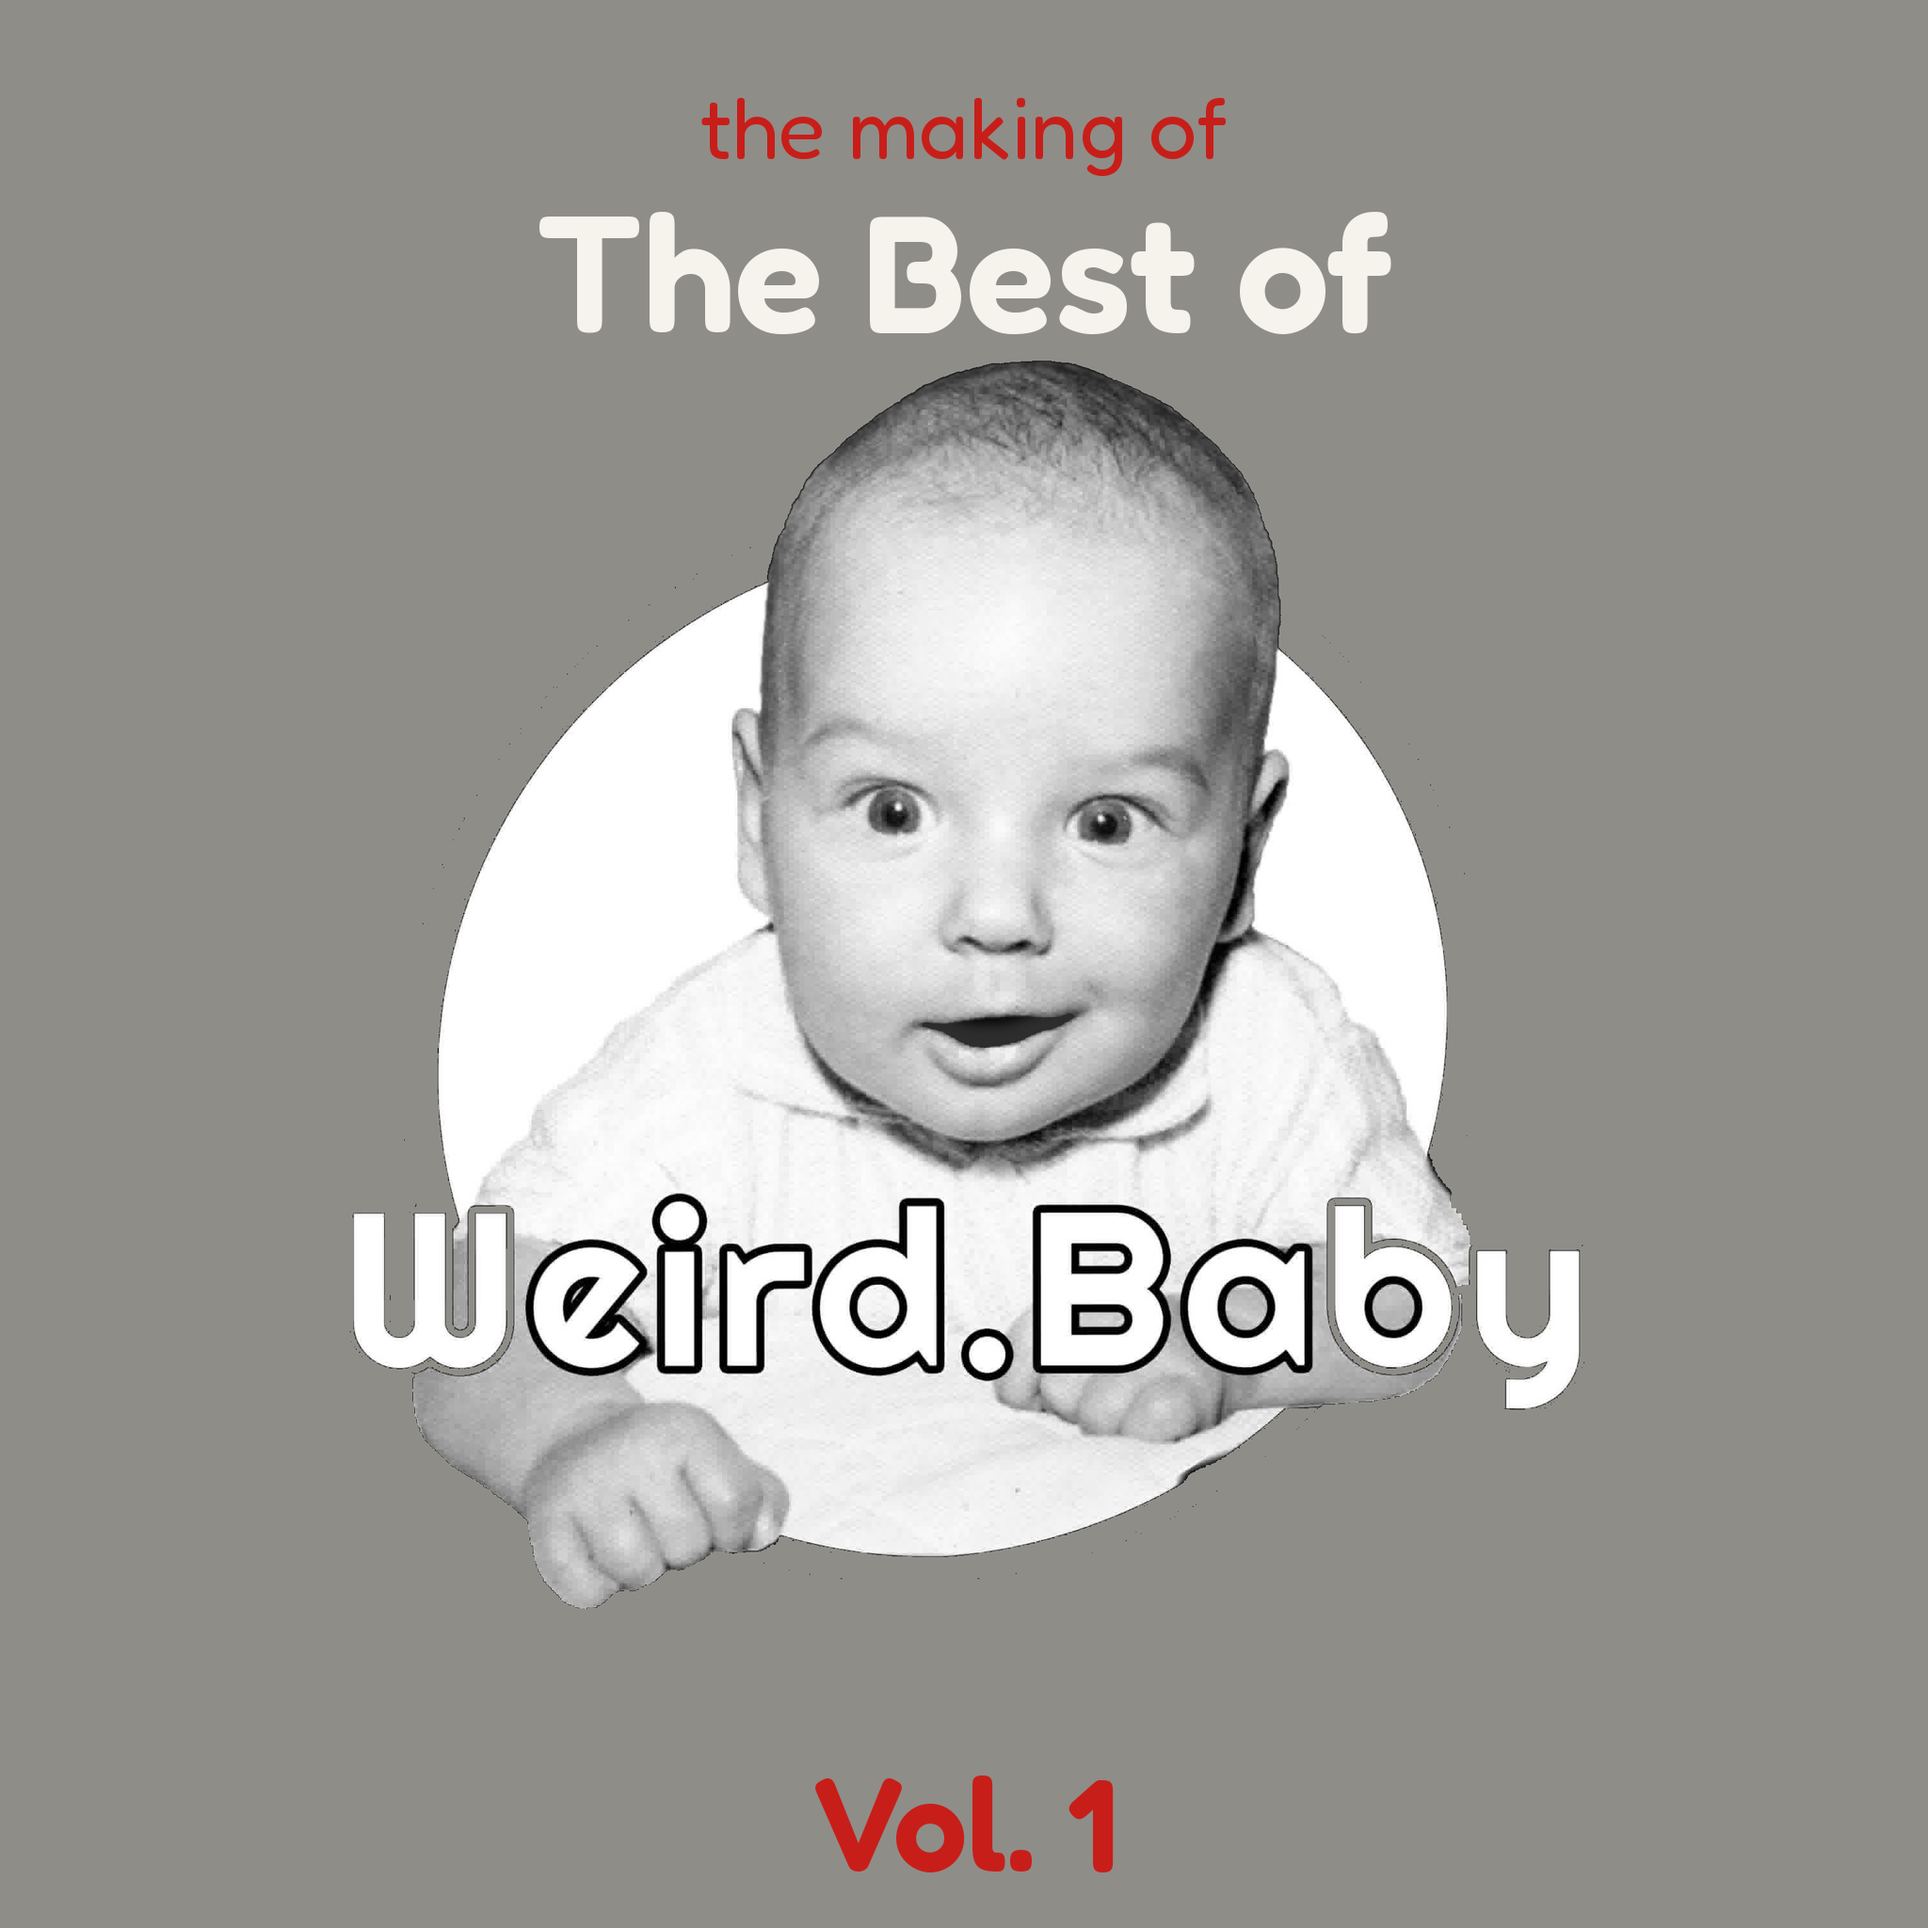
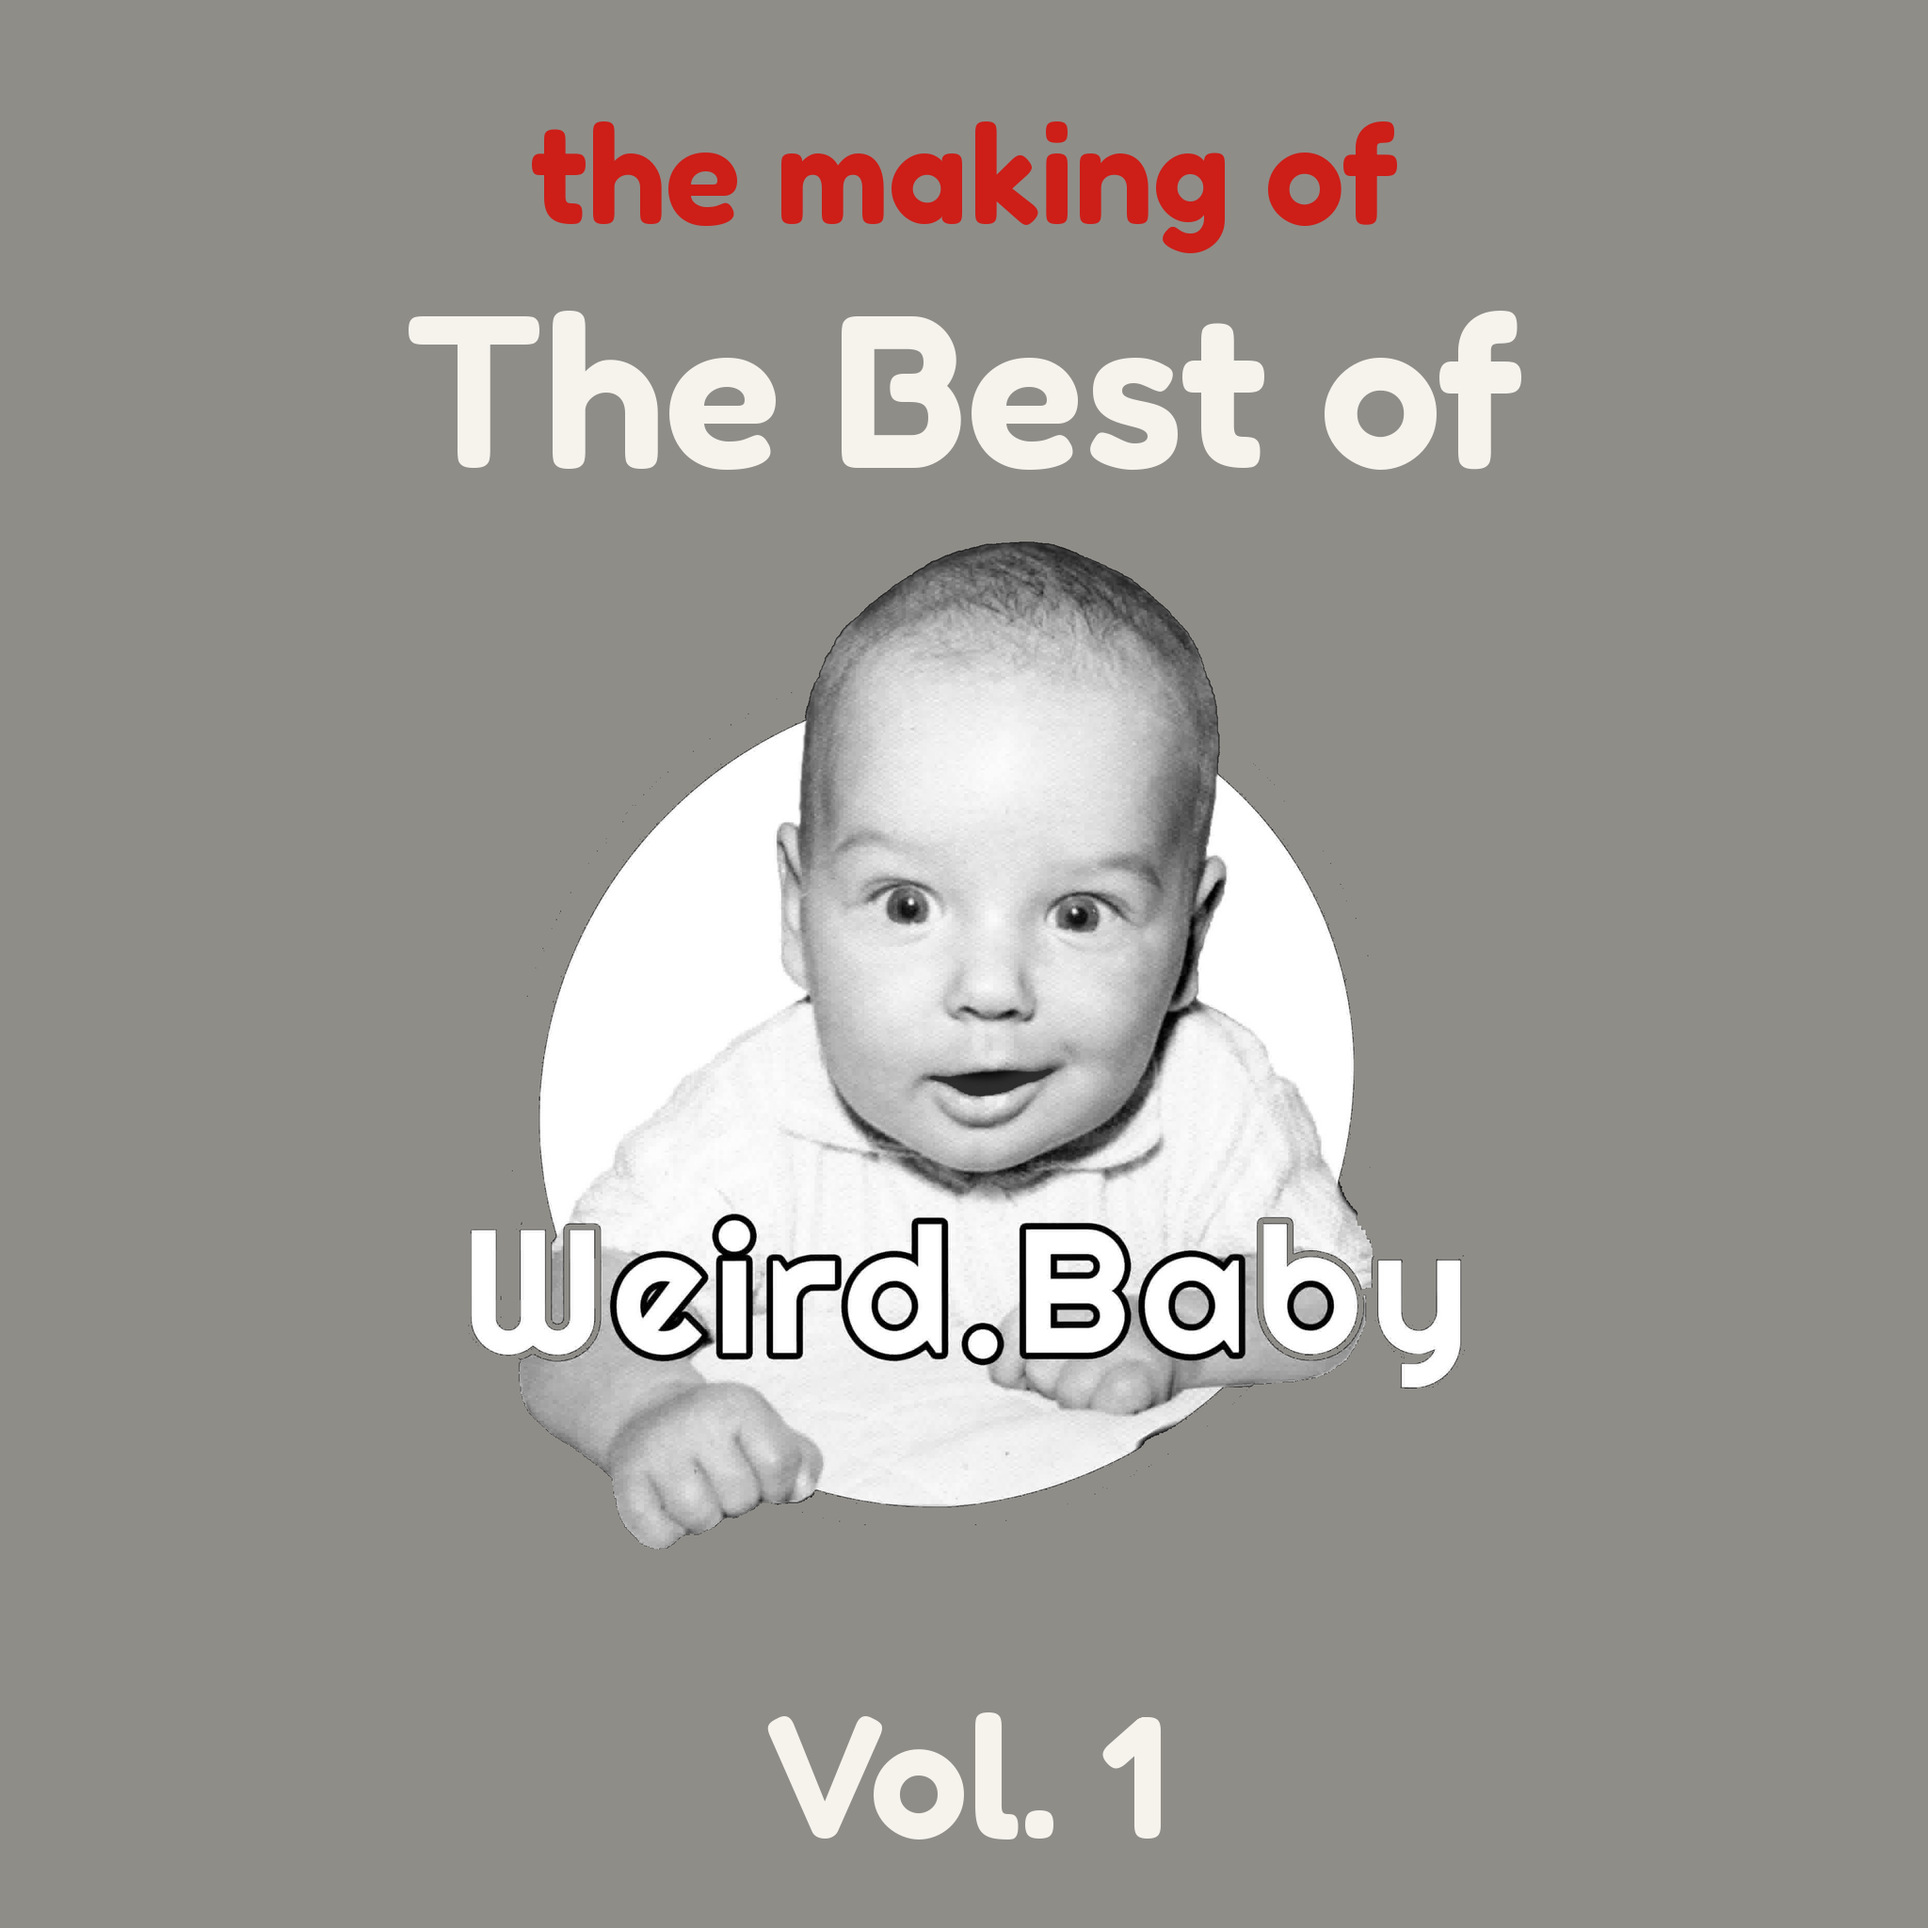
fix(wb+shop+exhibit): cover v2 (pop making-of, white Vol.1, smaller photo); BoWB V1 title; visible type-anchored variant select, none for single-rendition; LOBBY both corners nav-style — Stage 3d (Mike 2026-07-06)

Changed region(s): [[0.1562, 0.0625, 0.8438, 0.8438], [0.375, 0.875, 0.625, 0.9688]]

diff --git a/src/routes/exhibit/Exhibit.css b/src/routes/exhibit/Exhibit.css
@@ -99,15 +99,17 @@ html{scroll-snap-type:y proximity;scroll-behavior:smooth}
 .tl-skip-mark{font-family:'Courier Prime',monospace;font-size:.5rem;color:var(--hr-gold-mute);margin-left:6px;flex-shrink:0;letter-spacing:.08em}
 .tl-num{font-family:'Courier Prime',monospace;font-size:.72rem;color:var(--hr-gold-mute);min-width:24px;display:flex;align-items:center;justify-content:center;flex-shrink:0}
 .tl-title{font-family:'Courier Prime',monospace;font-size:.98rem;color:var(--hr-gold);flex:1;padding:0 10px;min-width:0;overflow:hidden;text-overflow:ellipsis;white-space:nowrap}
-/* 2026-07-06 Mike: number/title click plays; only the TYPE text drops the
-   variant select. The invisible select now overlays .tl-typewrap only. */
-.tl-selwrap{flex:1;min-width:0;display:flex;align-items:baseline;gap:8px;padding:0 10px}
-.tl-selface{pointer-events:none;display:flex;align-items:baseline;min-width:0;overflow:hidden;white-space:nowrap}
-.tl-selface b{font-family:'Courier Prime',monospace;font-weight:700;font-size:1rem;color:var(--hr-gold)}
-.tl-typewrap{position:relative;display:flex;align-items:baseline;min-width:0;overflow:hidden}
-.tl-typewrap i{font-style:normal;font-family:'Oswald',sans-serif;font-size:.7rem;letter-spacing:.06em;color:var(--hr-gold-mute);overflow:hidden;text-overflow:ellipsis;white-space:nowrap}
-.tl-titlesel{position:absolute;inset:0;width:100%;opacity:0;font-size:16px;border:none;background:transparent;appearance:none;-webkit-appearance:none;cursor:pointer}
-.tl-track:hover .tl-selface b{color:var(--hr-gold-hi)}
+/* 2026-07-06 Mike: number/title click plays. Variant dropdown = a VISIBLE
+   styled select at the type position (popup anchors there, not the title).
+   Plain mono type, no italics, wider gap after the title. Single-rendition
+   tracks render plain .tl-type text — no dropdown at all. */
+.tl-selwrap{flex:1;min-width:0;display:flex;align-items:baseline;gap:14px;padding:0 10px;overflow:hidden}
+.tl-tt{font-family:'Courier Prime',monospace;font-weight:700;font-size:1rem;color:var(--hr-gold);white-space:nowrap;overflow:hidden;text-overflow:ellipsis}
+.tl-track:hover .tl-tt{color:var(--hr-gold-hi)}
+.tl-type{font-family:'Courier Prime',monospace;font-size:.68rem;letter-spacing:.04em;color:var(--hr-gold-mute);white-space:nowrap;flex-shrink:0}
+.tl-typewrap{position:relative;display:inline-flex;align-items:baseline;flex-shrink:0}
+.tl-typewrap::after{content:"▾";position:absolute;right:2px;top:50%;transform:translateY(-52%);font-size:.55rem;color:var(--hr-gold-mute);pointer-events:none}
+.tl-typesel{font-family:'Courier Prime',monospace;font-size:.68rem;letter-spacing:.04em;color:var(--hr-gold-mute);background:transparent;border:none;appearance:none;-webkit-appearance:none;cursor:pointer;padding:0 14px 0 0;max-width:220px;overflow:hidden;text-overflow:ellipsis}
 
 /* TAG GRID */
 /* 2026-06-07 Mike: variant buttons bolder + larger for legibility. */

diff --git a/src/routes/exhibit/Exhibit.jsx b/src/routes/exhibit/Exhibit.jsx
@@ -441,23 +441,25 @@ function TrackList({ album, playingTrackIdx, activeTrack, selectedVis, onSelect,
               {playing ? <NpBars color="#b8974a" /> : String(ti+1).padStart(2,"0")}
             </span>
             {hasVids ? (
-              {/* 2026-07-06 Mike: number/title click PLAYS (bubbles to the row);
-                  ONLY the type text opens the variant dropdown — the invisible
-                  select overlays .tl-typewrap, not the whole row face. */}
+              {/* 2026-07-06 Mike: number/title click PLAYS (bubbles to the row).
+                  The variant dropdown is a VISIBLE styled select sitting where
+                  the type text is, so the popup anchors there — not the title.
+                  Single-rendition tracks get plain type text, no dropdown. */}
               <span className="tl-selwrap">
-                <span className="tl-selface" aria-hidden="true">
-                  <b>{track.title}</b>
-                </span>
-                <span className="tl-typewrap">
-                  <i>{tidyDesc(track.title, track.videos[[...selSet][0] ?? 0])}</i>
-                  <select className="tl-titlesel" value={[...selSet][0] ?? 0}
-                    onClick={e => e.stopPropagation()}
-                    onChange={e => { e.stopPropagation(); onTagClick(ti, Number(e.target.value)); }}>
-                    {track.videos.map((v, vi) => (
-                      <option key={vi} value={vi}>{track.title + " — " + tidyDesc(track.title, v)}</option>
-                    ))}
-                  </select>
-                </span>
+                <b className="tl-tt">{track.title}</b>
+                {track.videos.length > 1 ? (
+                  <span className="tl-typewrap">
+                    <select className="tl-typesel" value={[...selSet][0] ?? 0}
+                      onClick={e => e.stopPropagation()}
+                      onChange={e => { e.stopPropagation(); onTagClick(ti, Number(e.target.value)); }}>
+                      {track.videos.map((v, vi) => (
+                        <option key={vi} value={vi}>{tidyDesc(track.title, v)}</option>
+                      ))}
+                    </select>
+                  </span>
+                ) : (
+                  <span className="tl-type">{tidyDesc(track.title, track.videos[0])}</span>
+                )}
               </span>
             ) : (
               <span className="tl-title">{track.title}</span>

diff --git a/src/routes/shop/GiftShop.css b/src/routes/shop/GiftShop.css
@@ -296,33 +296,32 @@
   max-width: 42ch;
 }
 
-/* ─── EXIT (top-right corner — Mike 2026-07-06) ────────────────────── */
+/* ─── EXITS (both top corners — Mike 2026-07-06; text-style buttons
+   matching the exhibit's ex-nav-return "Gift Shop" button) ──────────── */
 .gift-shop__exit {
   position: absolute;
-  top: 2.4rem;
-  right: 1.5rem;
-  text-align: right;
+  top: 2.6rem;
 }
 
+.gift-shop__exit--left  { left: 1.5rem; }
+.gift-shop__exit--right { right: 1.5rem; }
+
 .gift-shop__exit-link {
-  display: inline-block;
-  padding: 0.95rem 2.25rem;
-  border: 1px solid #211f1c;
-  background: transparent;
+  background: none;
+  border: none;
   color: #211f1c;
   font-family: 'Syne', sans-serif;
-  font-weight: 700;
-  font-size: 0.75rem;
-  letter-spacing: 0.22em;
+  font-weight: 800;
+  font-size: 0.7rem;
+  letter-spacing: 0.25em;
   text-transform: uppercase;
   text-decoration: none;
-  transition: background 0.2s, color 0.2s;
+  transition: opacity 0.2s;
 }
 
 .gift-shop__exit-link:hover,
 .gift-shop__exit-link:focus-visible {
-  background: #211f1c;
-  color: #ece9e0;
+  opacity: 0.7;
 }
 
 /* ─── MOBILE ───────────────────────────────────────────────────────── */
@@ -332,11 +331,9 @@
   }
   .gift-shop__exit {
     top: 1.25rem;
-    right: 1rem;
   }
-  .gift-shop__exit-link {
-    padding: 0.6rem 1.2rem;
-  }
+  .gift-shop__exit--left  { left: 1rem; }
+  .gift-shop__exit--right { right: 1rem; }
   .gift-shop__title {
     font-size: 2rem;
   }

diff --git a/src/routes/shop/GiftShop.jsx b/src/routes/shop/GiftShop.jsx
@@ -79,8 +79,14 @@ export default function GiftShop() {
         aria-hidden="true"
       />
 
-      {/* LOBBY EXIT — top-right corner */}
-      <nav className="gift-shop__exit" aria-label="Gift shop exit">
+      {/* LOBBY EXITS — both top corners, styled like the exhibit's nav
+          buttons (Mike 2026-07-06) */}
+      <nav className="gift-shop__exit gift-shop__exit--left" aria-label="Gift shop exit">
+        <Link to="/" className="gift-shop__exit-link">
+          ← LOBBY
+        </Link>
+      </nav>
+      <nav className="gift-shop__exit gift-shop__exit--right" aria-label="Gift shop exit">
         <Link to="/" className="gift-shop__exit-link">
           LOBBY →
         </Link>

diff --git a/src/data/artists/weird-baby.js b/src/data/artists/weird-baby.js
@@ -25,9 +25,9 @@ const REC_LABEL = "Recording — 2026-06";
 const spine = [
   {
     id: "vol1",
-    title: "Best of Weird.Baby — Vol 1",
+    title: "The Making of BoWB V1", // display title per Mike 2026-07-06 (registration title: Best of Weird.Baby — Vol 1)
     year: 2026,
-    art: "/images/wb/vol1_cover_v1.png", // v1 composed cover (Mike's spec 2026-07-06): red "the making of" / white "The Best of" / logo / red "Vol. 1"
+    art: "/images/wb/vol1_cover_v1.png", // composed cover (Mike 2026-07-06): gray field, red "the making of" (pop), white "The Best of" / logo / white "Vol. 1", smaller photo larger text
     accent: null,
     tracks: [
       {
